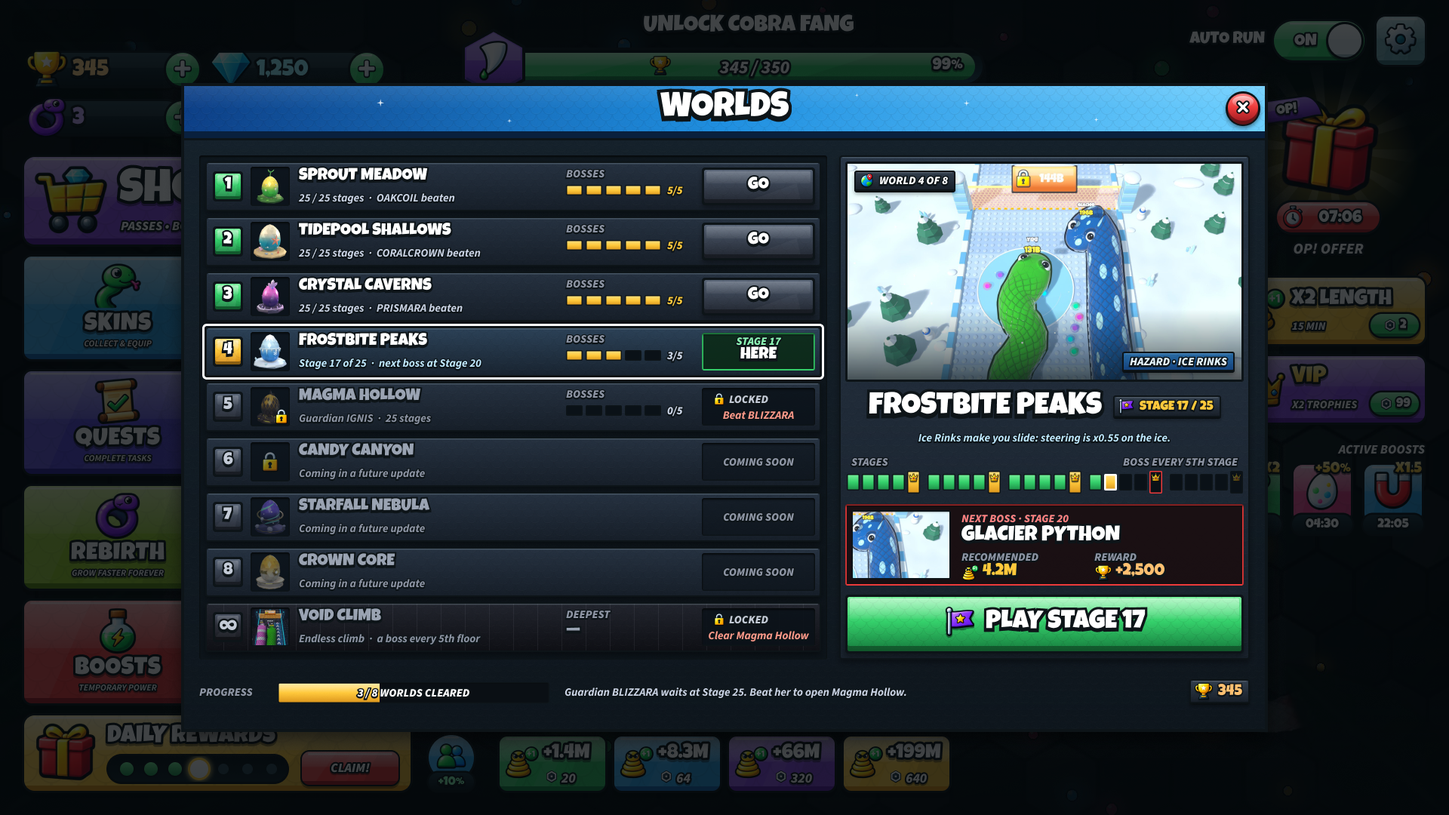
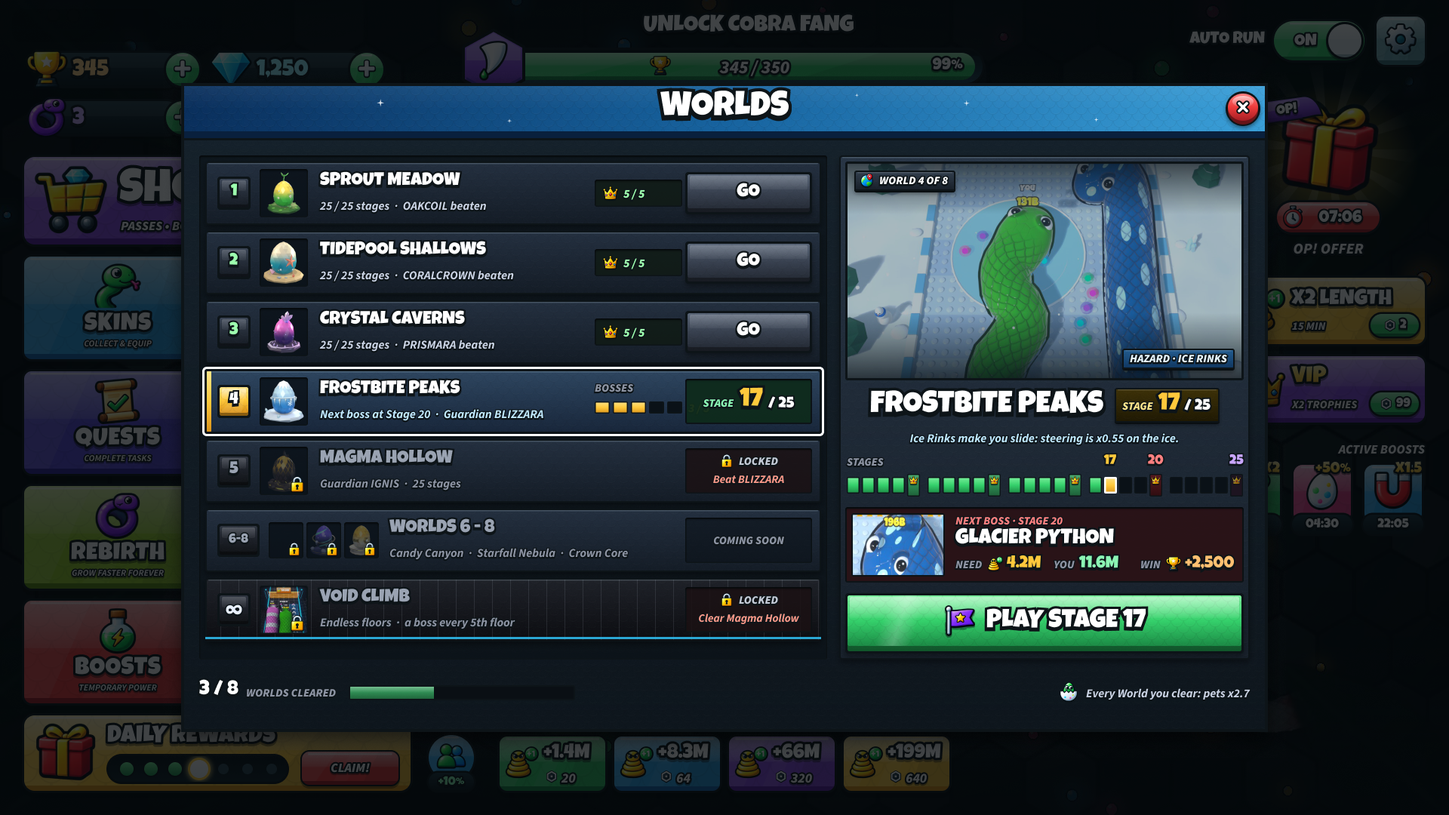
Snake Wars v2: Worlds QA fix pass (7-row list, numerals first, ink outlines, darker header/art) + QA reports

diff --git a/concepts/snakewars_vc/qa/worlds_v2_vh_feasibility.md b/concepts/snakewars_vc/qa/worlds_v2_vh_feasibility.md
@@ -1,0 +1,137 @@
+# Snake Wars "Worlds" v2 (1920x1080) - Visual Hierarchy + Roblox Feasibility review
+
+Image reviewed: concepts/snakewars_vc/after/worlds_desktop_v2.png. Compared with before/worlds_desktop.png (old map version) and ref/peckwood_v2_mine_areas.png (style reference). Kit read: figma/sw_kit.js.
+Method: Gaussian blur r=8 then 25 % and 50 % downscale (colour and grayscale), plus per-region luminance/saturation measurements and WCAG contrast sampling on the full-res PNG. Read-only; nothing edited except this report.
+
+Layout facts used below (px at 1920x1080): window x242-1676, y114-970 (1434x856, flat blue header 60 px). Rail x274-1086 (9 rows, 73 px pitch). Hero well x1122-1646, y217-503 (524x286). Title block y515-560. Stage strip y600-656. Boss card y670-775. PLAY key x1122-1646, y790-862 (524x72). Footer y900-935. Backdrop is dimmed to about 32 % of its original brightness (about 68 % scrim).
+
+---
+
+## SQUINT ORDER (what the eye actually lands on)
+
+| # | Shape | Evidence |
+|---|-------|----------|
+| 1 | The hero art slab (snow scene, top right, 524x286) | Mean luminance 0.72 vs window mean 0.28 and PLAY region 0.59. Near-white snow is the brightest and largest shape in the window. It is also the only big light object on a dark UI. |
+| 2 | The blue header band with white WORLDS, full width | Saturation 0.72, luminance 0.48, 1434 px wide. It is the most saturated shape in the window. lum x sat = 0.32 vs 0.29 for the PLAY region, so it edges the key out on raw pop. |
+| 3 | PLAY STAGE 17 green key (bottom right) | Strong and isolated, but third. Wins on isolation and hue, loses on size of the bright area and on luminance. |
+| 4 | The gold pip column on rail rows 1-4 (four 5-pip bars stacked at x750-905) plus the green number badges 1-3 and the white outline on row 4 | Repeated saturated gold dashes read as one vertical stripe. Cleared rows (1-3) are louder than the current row (4): full gold pips x3 and bright green badges x3 vs only 3 pips and an amber badge on row 4. |
+| 5 | The yellow "3/8 WORLDS CLEARED" bar, isolated bottom left (with the gold 345 chip bottom right) | Full-saturation gold (235,171,43) on near-black (10,15,20), alone in a dead footer. Isolation makes it pop far above its importance. |
+
+Also visible but outside the window: the red/gold gift box at the right edge (the strongest backdrop object even at 32 % brightness).
+Also pulling in the right column: the boss-card thumbnail (a bright white-blue crop of the hero art, directly above PLAY) and the amber "1448" lock tag baked into the hero art (top centre, highest-saturation warm dot in the hero).
+
+## INTENDED ORDER (player job: where am I, next boss, press PLAY; then replay / what is locked and why)
+
+1. PLAY STAGE 17 - the one primary key: strongest saturation, biggest key, terminus of the right column.
+2. FROSTBITE PEAKS plus a big "17/25" numeral (where am I). Biggest white type in the window.
+3. World 4 row in the rail (white outline, brighter plate, "HERE") - confirms location, anchors the rail.
+4. NEXT BOSS card: GLACIER PYTHON, 4.2M recommended, +2,500 reward - the only warm/red panel.
+5. Hero art as atmosphere - supports #2, must never out-shine #1.
+Then: stage strip (17 marker, crown at 20) > cleared-world GO keys (steel, quiet) > locked rows (quietest) > progress footer (quietest of all) > header chrome.
+
+## Mismatch table (squint vs intended)
+
+| Mismatch | Cause | Smallest fix |
+|----------|-------|--------------|
+| Hero art is #1, PLAY is #3 | contrast (luminance 0.72) + size | Darken/cool the art and add edge vignette (see FIX 1). |
+| Header outranks PLAY | saturation + width | Lower header value 20-25 %, dome gloss 0.32 to 0.18 (FIX 4). |
+| Cleared rows louder than current row | saturation + repetition (3x gold pips, 3x bright green badges) | Mute cleared pips/badges; keep bright gold only for row 4 (FIX 2). |
+| "Where am I" numbers are tiny | size (numbers smaller than labels - breaks "numbers before labels") | Big gold numerals for 17 and 17/25 (FIX 3). |
+| Footer progress bar and 345 chip pop | isolation + saturation (dead-zone magnets) | Mute bar, drop duplicate chip (FIX 5). |
+| Boss thumbnail pulls the eye next to PLAY | luminance + duplicates hero art | Dark portrait on the card's own background (FIX 6). |
+
+## FIXES (ranked, smallest change first within each rank)
+
+1. **Hero art too bright (cause: luminance/size).** Target mean luminance <= 0.45 so the PLAY face is the brightest large shape. In the render: re-expose the snow cooler/darker (snow about (150,175,200) instead of (225,245,254)) and add a 25-30 % black vignette at top and bottom edges; keep the green snake and blue boss bright so the subject still pops. Delete the baked-in amber "1448" lock tag, "YOU 1318" and "1968" world-space billboards (tiny unreadable text, one saturated amber dot that looks like UI). In Roblox this is free: ImageLabel.ImageColor3 = (0.70, 0.76, 0.88) multiplies the art darker/cooler, plus two edge gradient Frames.
+2. **Cleared rows outshine the current row (cause: saturation + repetition).** Rows 1-3: pips at about 45 % (muted dull gold, or collapse to a single "5/5 BOSSES" text with a check); badges to steel or venom-bevel dark green with a small check. Only row 4 keeps full-bright gold pips and the amber badge. Add a 6 px amber accent bar on the left edge of row 4 and make row 4 about 16 px taller (space comes from FIX 7).
+3. **Numbers must read before labels in the "where am I" cluster (cause: size).**
+   - Hero chip "STAGE 17 / 25": make "17" a Luckiest Guy gold numeral about 28-32 px with a 12 px "STAGE" label above or beside; "/ 25" smaller.
+   - Row-4 HERE chip: today "STAGE 17" is about 13 px and "HERE" is 22 px, so the word beats the number. Swap: "STAGE" 11 px label, "17" 28 px, drop the word HERE (the white outline and accent bar already say here).
+   - Row-4 subtitle "Stage 17 of 25": make "17/25" gold Luckiest 18 px.
+   - Stage strip: add a numeral above the amber tile ("17") and under the red boss tile ("20"). Today the strip has no numbers, so the amber tile is not tied to 17 without reading the title.
+4. **Header louder than the key (cause: saturation + width).** Drop header value about 20-25 % (e.g. gradient from #1C4F86 to #143A66) and the dome gloss alpha from 0.32 to 0.18; keep sparkles and the title. This is where the screen beats the Peckwood reference, whose header is as loud as the window gets.
+5. **Footer magnets (cause: isolation + saturation).** Progress bar: muted fill (venom at 55 % or desaturated gold), numerals "3/8" in Luckiest 20 px *inside/left* of the bar, "WORLDS CLEARED" label outside to the right (today the label straddles fill and track with no gap: "3/8WORLDS CLEARED"). Delete the 345 trophy chip (duplicates the HUD, and the HUD already shows 345/350); if trophies really gate worlds, say so ("Need 400 for next world") instead. Delete the footer sentence "Guardian BLIZZARA waits at Stage 25..." (duplicates row 5's "Beat BLIZZARA") or fold it into the row-5 lock reason.
+6. **Boss card (cause: luminance + duplication).** Boss portrait should be a dedicated head/body render on the card's own dark-red gradient, not a bright crop of the hero (it currently shows ice terrain and the "1968" tag and sits right above PLAY). Add a "YOUR LENGTH 1.4M" line next to "RECOMMENDED 4.2M" - the recommendation has no reference number, so the player cannot decide. Keep the card as the only red panel. Add 8-10 px more gap between card and PLAY key (today 15 px; red outline and green key vibrate against each other) and soften the red border to about 60 %.
+7. **Dead zone: rows 6, 7, 8 (cause: wasted height, 3x identical copy "Coming in a future update").** Collapse to one 52 px row "WORLDS 6-8 - COMING SOON" with three small padlock icons. That returns about 165 px of rail height (use it for FIX 2's taller row 4 and for a 2-line lock reason on row 5). Tie the lock reason to the strip: tint the stage-25 crown (currently almost invisible) rose/ember with a tiny lock so "Beat BLIZZARA" visibly points at the end of the strip.
+8. **Push PLAY further (position/isolation/motion).** Idle sheen sweep across the PLAY face every 4 s (UIGradient.Offset tween) and a 1.5 % UIScale breathe; nothing else in the window moves. Optional: raise the lip from 6 to 8 px, label to 40 px. Do not add a second saturated key anywhere.
+9. **Selection semantics.** "HERE" (where progress is) and the white outline (selected row) are different states that currently coincide. When the player selects row 2, the outline must move and the HERE marker must stay on row 4; PLAY becomes REPLAY ... Spec this before building.
+10. **Hero chips.** "WORLD 4 OF 8" (13 px label) is fine as an orientation chip but the number is as small as the words; if space allows, "4" gets the same big-numeral treatment as 17.
+
+### Competing primaries, dead zones, fold
+
+- Competing primaries: none among keys (PLAY is the only saturated key, GO keys are steel, HERE is a dark-green well, the red gem close is standard). The competition is non-key: hero art, header band, gold pips, gold progress bar. The round red close gem is the second-most-saturated key and is acceptable.
+- Gold is overloaded (boss-beaten pips, current-stage tile, row-4 badge, reward numbers, progress bar, trophy chip). Keep gold = "boss / reward" and let current = white outline + amber, and the progress bar goes to venom/steel.
+- Dead zones: rows 6-8 (about 220 px, 340 px empty centre columns); footer strip (60 px for one stat plus a duplicated sentence plus a duplicated trophy count).
+- Below the fold: nothing at 1080p (the window is 856 px tall). The "why locked" information is the lowest-placed text (footer sentence) and the smallest on row 5 (14 px coral); the row-level reason (9:1 contrast) is right, the footer duplicate should go. Contrast is fine across the board: dim locked titles are 3.5-4.1:1 (intentional), secondary labels 4.6-5.9:1, body text 10:1+, so the problems are hierarchy, not legibility. Phone layout not reviewed; the rail has 9 rows, so on phone scroll it to row 4 and pin PLAY outside the scroll area.
+
+## Old vs new vs Peckwood reference
+
+- **Old (map version):** the green header (lum 0.66, pop 0.35) and the PLAY key (pop 0.35) tied for first; the winding green path, snake mascot, 25 green stage nodes and green PLAY made a green soup, so there was no unique primary. Location ("World 4, Stage 17") was only a small snake head on the map plus a gold node in the grid. Locked worlds were coloured, lit platforms as vivid as the open ones. Strengths worth keeping: big node numbers, strong journey/story feel.
+- **New:** clearly better. One green key in the whole window, header moved off green, steel secondaries, locked rows genuinely quiet, rail/hero/primary-beside-details structure as specified, boss pips and lock reasons are new information, and the boss card has real numbers-over-labels (RECOMMENDED 4.2M, +2,500). It loses the journey-map feel and the world identity is now concentrated in the hero art plus 48 px egg icons, so the hero must change per selected world.
+- **vs Peckwood v2 reference:** on par, not yet higher. Ahead: no tab-bar green competing with the primary key, and the label vs number split in the boss card is cleaner. Behind: Peckwood's hero is dark purple with a dark golem, so it never competes with the green key; ours is near-white and does. The reference also has bright gold milestone pips x4, same as ours, so that is not a differentiator. To go higher: FIX 1, 2, 3, 4 and 8.
+
+## VERDICT
+
+**CLEAR in structure, muddled at the top of the order.** One primary key, quiet secondaries, and a readable rail/hero/PLAY flow, so the player can find the job in a second. But the squint order is hero art, header, PLAY, gold pips, footer bar, so the primary key is third and the "where am I" numbers are the smallest text in their cluster. FIX 1-5 (all palette/size changes, no layout rebuild) turn this into a clear order and put it above the Peckwood reference.
+
+---
+
+# PASS 2 - ROBLOX FEASIBILITY
+
+Allowed toolbox assumed: Frame, UICorner, UIStroke, UIGradient (linear), ImageLabel (icons/art/textures/flipbooks), TextLabel (LuckiestGuy, SourceSansPro Heavy/Bold Italic), UIScale, TweenService. No EditableImage, shaders, blend modes, conic gradients, skew, letter-spacing, backdrop blur, native drop shadows.
+
+Everything in this screen uses only normal-alpha blending, linear gradients and axis-aligned or rotated rectangles/triangles. Nothing needs a blend mode, a conic gradient, a skew or letter-spacing. The kit's DROP_SHADOW/INNER_SHADOW effects are the only things with no native equivalent.
+
+Rough instance budget for this window if built literally from the kit: about 350-450 GuiObjects (about 28 per rail row x 9 = 250, right column about 70, window/header/footer about 35), about 60 UIGradients, about 100 UIStrokes. That is fine for a static, build-once screen; the notes below trim the avoidable part (hex overlays that are invisible at 5 %, strokes on small steel-plate text, soft shadows). Treat the counts as estimates, not engine limits.
+
+| # | Effect (where) | Verdict | Roblox recipe | Perf note | Redesign? |
+|---|----------------|---------|---------------|-----------|-----------|
+| 1 | Square-top window, 4 px continuous ink outline | native | Frame (no UICorner) + UIStroke(Thickness 4, Color ink #0D1418, ApplyStrokeMode Border). UIStroke draws outside the frame bounds (verify once in Studio) so inset the frame by the thickness or give the parent padding. | 1 stroke. | No |
+| 2 | Dimmed hub backdrop (about 68 % scrim) | native | Full-screen Frame, black, BackgroundTransparency about 0.32, Active=true to eat clicks. No blur. Live HUD stays under it. | 1 quad. | No. Consider 0.25 so the red gift box recedes. |
+| 3 | Soft window shadow (SHADOW 10/24/0.5) | recipe, optional | One 9-slice soft-shadow ImageLabel (ScaleType Slice, SliceCenter) behind the window, offset +10 Y, ImageTransparency about 0.5. | 1 image. | In the render it is invisible against the scrim: safe to drop. |
+| 4 | Header: L-to-R gradient, hex scales, gloss dome, depth band, ink line | native | Frame + UIGradient(Rotation 0); tiled ImageLabel for scales; dome = Frame with UICorner(1,0) and UIGradient Transparency 0.68 to 1, parent header ClipsDescendants; depth band and ink line = 2 Frames. | About 6 objects. | No |
+| 5 | Sparkles (5 four-point stars, header) | native | 4-point-star PNG in ImageLabels, 5-10 px; optional TweenService twinkle on ImageTransparency/Rotation. | 5 tiny images; tween only on window open. | No |
+| 6 | Round red gem close key | native | 4 Frames with UICorner(1,0) (ink body, lip, face, gloss), X as ImageLabel PNG (kit builds it from vector strokes - not available), 56 px hit area as an ImageButton/TextButton. | about 6 objects. | Glyph must be a PNG. |
+| 7 | Gem keys (PLAY, GO, HERE, number badges): ink body + lip + face + hex scales + facet + gloss cap | native (composed) | Frame ink body (UICorner 4) > lip Frame (face colours x0.62, UICorner 2.5) > face Frame (UIGradient vertical) > children: tiled scales ImageLabel, facet, gloss Frame. Press state: tween face Position down by D and hide lip. Build as one Key factory. | 5-7 objects per key, about 15 keys = about 90. Steel keys: skip scales and facet (they are 3-5 % opacity). | Slim steel variant. |
+| 8 | Gloss cap (white .45 to .04 on upper 42 %) | native | Frame, BackgroundColor3 white, UICorner, UIGradient Transparency (0.55 at top to 0.96 at bottom; Roblox transparency = 1 - alpha). | 2 objects (frame + gradient). | No |
+| 9 | Face and plate gradients | native | UIGradient ColorSequence, Rotation 90 (vertical) or 0 (horizontal); set BackgroundColor3 white so the gradient carries the colour. Kit only uses linear gradients. | Cheap, static. | No |
+| 10 | Facet triangle (3-7 % white, rotated polygon on keys) | recipe | No polygon primitive. Use a Frame with UIGradient Rotation -28 and a hard-stop Transparency sequence (0:1, 0.5:1, 0.501:0.93, 1:0.93). No asset needed. Alternative: shared white-triangle PNG in an ImageLabel, rotated, ClipsDescendants on the face. | 1 object per key. At 3 % (steel keys) it is invisible in the render. | Drop on steel; keep on coloured keys only. |
+| 11 | Hex-scale texture (5-8 %) on window, header, plates, keys | recipe | ImageLabel, ScaleType Tile, TileSize about 28x16 px, ImageTransparency 0.92-0.95, seamless PNG <= 256 px, own asset (not a sprite sheet; Tile + ImageRect is unreliable). UIScale on the window scales tiles with it. | Each layer is an overdraw quad and breaks draw batching when interleaved with text. About 35 in this screen. | Keep only on window bg, header, PLAY key and keys >= 120 px; drop the <= 5 % layers on plates/chips/badges (invisible). |
+| 12 | Ink drop on text (hard 0-blur offset 1-4 px) | recipe | Duplicate TextLabel behind: ink colour, same text, Position +(0, y), lower ZIndex, its own UIStroke. | Doubles label count. | Limit to Luckiest Guy display text and numbers >= 18 px (title, PLAY, row names, big numerals); at <= 16 px the drop sits inside the outline and does nothing. |
+| 13 | Outlined text (ink stroke 1.2-4.5 px) | native | UIStroke on the TextLabel: ApplyStrokeMode Contextual, Color ink, Thickness = about 0.09 x size, LineJoinMode Round. | About 100 strokes in the literal build. Text strokes cost more than plain text. | Skip the stroke on <= 16 px labels that sit on steel plates (they already read at 5-10:1 contrast and the 1.2 px outline is not visible); keep it on text over art, gradients and keys. Tune thickness against one real label (the kit's OUTSIDE 9 % may need +/-0.5 px). |
+| 14 | Fonts: Luckiest Guy titles/numbers; Source Sans Black Italic / Bold Italic labels | native | Enum.Font.LuckiestGuy; SourceSansPro family via Font.new(..., Heavy, Italic) and (..., Bold, Italic). Uppercase with string.upper. | None. | Do not hard-code widths from Figma's textW (Source Sans 3 vs SourceSansPro metrics differ slightly): use AutomaticSize.X, UIListLayout and TextBounds. No letter-spacing is needed (kit uses none). |
+| 15 | Infinity glyph on the Void Climb badge | NOT possible as text (uncertain) | Luckiest Guy is unlikely to have U+221E and Roblox will fall back to a different font. Use an ImageLabel glyph PNG. | trivial. | Yes - make it an icon. |
+| 16 | Steel plate rows (gradient + 2 px stroke + top highlight + soft drop) | native + recipe | Frame + UICorner(4) + UIGradient + UIStroke(2) + 1.5 px top highlight Frame (white, transparency 0.82). Soft SHADOW(4,10) replaced with a 3 px hard ink Frame offset below, or dropped. | 3-4 objects x 9 rows. | Replace soft shadow. |
+| 17 | Inner shadow on wells (value fields, icon wells, COMING SOON wells, hero frame) | recipe | One 9-slice inner-shadow ImageLabel (single PNG shared by all wells) or a 6 px top Frame with UIGradient Transparency 0.35 to 1 plus optional 2 px side strips. | 1-3 objects per well. | Yes, replace the effect. |
+| 18 | Soft drop shadows on keys, chips, plates, icons (SHADOW/INKDS with blur) | NOT possible natively | Hard-offset ink Frame under the element (the key lip already is one), or a 9-slice soft-shadow ImageLabel for large items only. For icons: bake the 1.5 px drop into the PNG, or a duplicate ImageLabel with ImageColor3 = ink, 50 % transparent, +1.5 px Y. | Soft shadows on every key/plate would add about 30 image quads; they are almost invisible on the dark steel. | Yes - remove blurred shadows, keep hard offsets. |
+| 19 | Hero art (snow scene with snakes) | recipe | Pre-rendered image (Studio/Blender), uploaded as one ImageLabel asset, <= 1024 px on its long side (Roblox downsizes larger uploads; use about 1024x560). UICorner 3, UIStroke 2 ink, ImageColor3 tint to darken (FIX 1), edge vignette via 2 gradient Frames or one 9-slice vignette PNG. Chips ("WORLD 4 OF 8", "HAZARD - ICE RINKS") are Frame + UIStroke + TextLabel on top. Load only the selected world's art (ContentProvider:PreloadAsync). Avoid a live ViewportFrame (EditableMesh snakes, cost). | About 1-2 MB of GPU memory per hero; 8 worlds = load on demand, release on close. | Re-render clean without baked world-space tags (amber lock "1448", "YOU 1318", "1968"); baked text cannot be localised. |
+| 20 | Boss portrait crop (card thumbnail) | native (but redesign) | ImageLabel with ImageRectOffset/ImageRectSize cropping the same hero asset costs no extra memory; better a dedicated 256x256 boss render on a dark backdrop. UIStroke 2 red on the thumbnail only. | trivial. | Yes - dedicated portrait (FIX 6). |
+| 21 | Icons (eggs, flag, trophy, crown, locks, length stack, globe) | native | ImageLabels from 3D renders (Blender); pack into 1-2 sprite sheets with ImageRectOffset/Size (pad edges) to keep texture count down. ZIndex above the plate. | About 35 icons; unique textures break batching, so use sheets. | No |
+| 22 | Vector glyphs (X, check, plus) built from SVG strokes in the kit | NOT possible as vectors | Render once to PNG (white fill + ink outline baked in) or use a TextLabel with a font glyph. | trivial. | Bake to PNG. |
+| 23 | Rail row selection (white 2 px outline on row 4, accent bar) | native | UIStroke(2.5, white) on the row Frame + 6 px accent Frame. The stroke is drawn outward: leave 4+ px padding in the list container so ClipsDescendants does not cut it. Tween Thickness/Transparency to animate selection. | 1 stroke. | Layout padding. |
+| 24 | Locked-row dimming | recipe | Use pre-dimmed colour tokens on those rows. Do not use CanvasGroup/GroupTransparency (not in the toolbox, and it costs an offscreen buffer). | none. | Token set, not a runtime fade. |
+| 25 | Pips (boss pips, stage strip of 25 tiles + crowns, progress bar) | native | Small Frames with UICorner 2 + UIStroke 1.5; UIListLayout/UIGridLayout; crowns as ImageLabels; BAR = track Frame + fill Frame (UIGradient) + gloss + TextLabel on top. Idea: the 5 boss pips per row could be one Frame with a hard-stop UIGradient, but 5 pips x (colour + gap) is about 20 keypoints, the maximum, so just use Frames. | About 55 objects for the strip, 25 for the pips. For cleared rows replace 5 pips with one text/check chip (saves about 18 objects). | Optional |
+| 26 | Chips (STAGE 17/25, WORLD 4 OF 8, HAZARD, 345) | native | Frame + UICorner 3 + UIStroke 2 + UIListLayout (icon + label) with AutomaticSize. | small. | No |
+| 27 | Boss card (red tint, red 2 px border) | native | Frame bg dark red (26,16,19), UIStroke red, children via UIListLayout. | small. | No |
+| 28 | Void Climb row vertical-stripe texture | recipe | Tiled low-alpha stripe PNG in one ImageLabel (or drop; barely visible). | 1 image. | Optional |
+| 29 | Open/close pop and PLAY idle sheen/pulse | native | TweenService on UIScale (0.94 to 1, <= 0.2 s) and window Position; sheen via UIGradient.Offset tween; pulse via UIScale on the PLAY face. Tweening UIScale on a window with about 100 text labels re-lays out text each step, so keep it short and do not loop it on the whole window; loop only the PLAY sheen. | Low if scoped to PLAY. | No |
+| 30 | Gradient-filled text | native (not used here) | UIGradient parented to the TextLabel. | n/a | n/a |
+
+Clip behaviour to remember: ClipsDescendants clips to the rectangle, not to UICorner shape. At the kit's radii (2.5-4 px) nothing visibly leaks, but the hero well and rounded keys should not rely on rounded-corner clipping for art.
+
+## MUST-REDESIGN LIST (before this screen is built)
+
+1. **Hero art: re-render clean and darker.** No baked billboards or lock tag, <= 1024 px, tuned to mean luminance <= 0.45, vignette via gradient/9-slice. (Visual FIX 1 and Roblox constraint align.)
+2. **Boss portrait: dedicated render**, not a crop of the hero (baked "1968" tag, bright ice).
+3. **Facets: drop on steel keys; use a hard-stop UIGradient Frame on coloured keys** instead of rotated polygon assets.
+4. **Soft shadows (window, keys, plates, chips, icons): remove**; keep only hard ink offsets and the key lip. At most one 9-slice shadow for the window (invisible anyway).
+5. **Inner shadows on wells: swap for one shared 9-slice inset PNG** (or a 6 px top gradient strip).
+6. **Text effects tiered:** outline + ink-drop duplicate only on display text and numbers >= 18 px and on text over art; <= 16 px steel-plate text gets neither (saves about 35 strokes and about 40 duplicate labels).
+7. **Hex-scale overlay only on window, header, PLAY and large keys;** drop the <= 5 % layers (about 25 objects).
+8. **Infinity glyph and all SVG-built glyphs (X, check, plus) become PNG icons.**
+9. **Do not bake Figma text widths** (font metrics differ): AutomaticSize + UIListLayout everywhere; fix the "3/8WORLDS CLEARED" collision by splitting numeral and label.
+10. **Locked-row dimming through colour tokens**, no CanvasGroup.
+11. **Padding for outward strokes:** the 4 px window outline and the 2.5 px row-4 outline are drawn outside their frames; reserve space or they will be clipped by parent ClipsDescendants.
+12. **Merge cleared-row pips into one chip** (also fixes the visual hierarchy: FIX 2) and collapse rows 6-8 into one row (FIX 7): about 40 fewer objects and a calmer rail.
+
+Net verdict for Roblox: everything on screen is buildable with the allowed set. The only things that are not native (blurred drop shadows, inner shadows, vector glyphs, polygon facets) have cheap substitutes, and in every case the substitute is closer to what is actually visible in the render than the original effect was (the soft shadows and 3-5 % overlays are essentially invisible at 1080p).

diff --git a/concepts/snakewars_vc/qa/worlds_v2_uiqa_style.md b/concepts/snakewars_vc/qa/worlds_v2_uiqa_style.md
@@ -1,0 +1,137 @@
+# Worlds v2 - UI QA (zoomed) + Style Guard
+
+Image: `concepts/snakewars_vc/after/worlds_desktop_v2.png` (1920x1080). Window = x 240..1679, y 110..969.
+Method: full view once, then 2-6x Pillow crops of every region (header, 9 rows, hero, title row, stage strip, boss well, PLAY key,
+bottom strip, corners) plus pixel sampling for edges, gaps, colours and cap heights. Cap height 10 px = about 15 px Source Sans.
+
+Verified clean (so you know what was checked): window outline is 4 px ink (13,20,24) on all four sides including the header,
+no gaps (L x240-243, R x1676-1679, T y110-113, B y966-969); rows are 66 px tall on an exact 73 px pitch (7 px gaps, y=214+73*(n-1));
+row title/sub baselines identical in all 9 rows (title +8..+24, sub +42..+55); name column x=396, BOSSES column x=751/884, right
+controls x=930..1080 in every row; list well and right panel share top 206 and bottom 873; PLAY key has a continuous 3 px ink
+outline (x1120..1647, y788..865) with a 7 px lip and gloss cap and 6 px steel margin each side; selected ring is exactly 3 px white
+(x268-270 / 1089-1091, y429-431 / 500-502); no placeholder text (no lorem, no TODO); close key is 46 px with 6-7 px margins.
+
+---
+
+## PASS 1 - UI QA defects (most severe first)
+
+Severity: M = visible at a glance / breaks a stated rule, L = polish.
+
+1. **[M] Next-boss portrait is a bad crop of the hero screenshot (clipped subject + clipped baked text).**
+   Where: thumbnail x1130..1258, y678..766 (inside the red well).
+   What: the python's head is sliced by the left edge, the in-game nameplate "1968" is cut by the top edge, and the rest is empty snow,
+   a tree and a snowman. It does not read as "GLACIER PYTHON" at all, and it is 128x88 so the sliced art is unmissable.
+   Fix: re-crop tight on the boss head + neck with the whole face inside the frame and the nameplate excluded (or drop in the
+   dedicated boss render from `3d/bosses`); keep the 2 px ink frame.
+
+2. **[M] Locked states are three different treatments (rows 5-8); rule 11 not met.**
+   Where: thumbnails at x332..384, rows 5-8 (y 506, 579, 652, 725 + 7..58); right wells x930..1080.
+   What: row 5 = egg dimmed to about 25% + padlock overlay + LOCKED / Beat BLIZZARA well (correct). Row 6 = no egg at all, a lone big padlock
+   (Candy Canyon has no egg art in the kit). Rows 7 and 8 = eggs at full colour/saturation (purple, gold), no padlock, no dim.
+   Rows 6-8 right wells say COMING SOON with no padlock. So 7 and 8 look unlocked-but-disabled while 5 looks locked.
+   Fix: one recipe for 5-8: egg art at the row-5 dim (about 25-30%) + the same 20 px padlock bottom-right of the tile; give Candy Canyon
+   an egg (or a dim "?" egg silhouette) so 6 is not a different icon type; add a small padlock before COMING SOON in the well.
+
+3. **[M] Coloured rims instead of ink outlines on three inner components.**
+   Where: (a) boss well rim x1120..1647, y668..775, 2 px #EE3B3B directly on steel, no ink around it; (b) row-4 status box rim x930..1080,
+   y441..490, 2 px #32BE61; (c) stage-20 cell ring x1523..1539, y~623..656, 2 px #EE3B3B.
+   Why: house rule is one black outline, no coloured rim; the ref wells (e.g. MINING HERE) are plain ink-outlined with coloured text only.
+   Fix: give all three the standard 2 px ink outline; carry the red/green as a tint of the fill (e.g. red 8% fill, green 10% fill) and in the
+   text. Stage-20 cell: ink outline + red crown/fill, no red ring.
+
+4. **[M] "STAGE 17 / HERE" text stack is cramped and off-centre.**
+   Where: x930..1080, y441..490. "STAGE 17" cap y447..456, "HERE" y460..474: 3 px clear between them, so the two ink halos
+   touch/merge. Block sits 5 px under the top rim and about 15 px above the bottom rim (top-heavy by about 5 px).
+   Fix: add 3-4 px leading (STAGE 17 up 1, HERE down 2) and centre the block (net shift down about 4 px), or drop to one line
+   "STAGE 17 HERE" in Source Sans mint.
+
+5. **[M] Hero art carries baked-in game text that is illegible and contradicts the panel.**
+   Where: hero x1123..1645, y217..503: gate tag "1448" (washed white-on-orange, about 1340..1425 x 225..250), nameplates "YOU 131B" and
+   "GLACIER 196B" (6-9 px tall, blurry).
+   Why: below the 15 px floor and unreadable; the numbers (131B / 196B / 1448) conflict with "RECOMMENDED 4.2M" in the boss well. The
+   art is also visibly softer than the UI (bilinear upscale).
+   Fix: re-render the hero without nameplates/gate numbers (or paint them out), or make them match (e.g. 3.1M / 4.2M); export at 2x.
+
+6. **[L] Progress bar: label straddles the fill edge and runs together; bar has no readable frame.**
+   Where: bar x368..727, y904..931; fill ends x503; label x470..620.
+   What: "3/8" sits half on gold, "WORLDS CLEARED" on black, and "8" to "W" is about 3 px so it reads "3/8WORLDS". The 1 px ink frame
+   (13,20,24) against window bg (14,23,30) is invisible, so only the gold block reads.
+   Fix: put "3/8 WORLDS CLEARED" entirely right of the fill (left-aligned at x=514) or as value text outside the bar; add a steel 2 px
+   rim or use a lighter track (28,38,50) so the ink outline shows.
+
+7. **[L] Lock + LOCKED line is off-centre in the locked wells.**
+   Where: row 5 and row 9 wells (x930..1080): padlock+LOCKED spans x947..1017 (centre 982) while the second line is centred at 1005
+   ("Beat BLIZZARA" 958..1051; "Clear Magma Hollow" 938..1071). Offset 23 px.
+   Fix: shift the lock+LOCKED group +23 px (or left-align both lines at x946).
+
+8. **[L] Egg icons have no ink outline and are low-res/soft; Void Climb thumbnail is a different art type.**
+   Where: tiles x332..384 in all 9 rows (eggs about 28x40 px of a 52 px tile).
+   What: eggs are soft 3D renders with no black sticker outline (confirmed at nearest-neighbour zoom); tile is half empty. Row 9's
+   thumbnail is a tiny gameplay screenshot with unreadable HUD pixels, not an icon.
+   Fix: add a 2 px ink outline to the egg PNGs (or stack an ink-dilated copy underneath), scale eggs up about 15% to fill the tile,
+   and swap the Void thumbnail for a painted icon (the same stud tower or an infinity gate on the dark tile).
+
+9. **[L] Number badges are saturated keys next to the single primary.**
+   Where: badges 1-3 green, badge 4 gold (x282..316, each row). Same recipe/colour family as the PLAY key, so they compete with it.
+   Fix: make all badges steel keys with the number in mint (cleared) / gold-outlined white (current) / grey (locked); keep colour only on
+   PLAY.
+
+10. **[L] Gold is used for non-Length things, diluting the colour code.**
+    Where: "STAGE 17 / 25" chip text (x1491..1606, y531..542, #FFC93C), "5/5" counters, boss pips, cleared boss cells, progress fill.
+    Fix: stage chip text to white (flag icon stays), "5/5" to body colour, pips and progress to a non-Length colour (sky or ice) so gold
+    means Length only; 4.2M keeps gold, +2,500 and 345 keep amber (both verified correct).
+
+11. **[L] Stage strip ambiguities.**
+    Where: strip x1123..1647, y~622..656. (a) Current stage 17 (x~1450..1480) uses the same gold as cleared boss cells 5/10/15 and its white ring has
+    no ink halo; (b) stage-25 cell (x~1630..1647) is dark-on-dark with no outline, effectively invisible; (c) label insets differ:
+    STAGES starts x1128 (strip 1123, +5) but BOSS EVERY 5TH STAGE ends x1639 (strip 1647, -8).
+    Fix: current = mint or white fill + ink outline + ring; cleared boss = gold; give cell 25 the same 1 px ink + dim crown at 60%;
+    align both labels to the strip ends.
+
+12. **[L] "WORLDS" title sits high in the header.**
+    Where: title ink halo top y118 vs window inner edge y114 (4 px) but bottom y161 vs depth band y174 (13 px).
+    Fix: move title down 4-5 px or reduce size 46 to 42.
+
+13. **[L] Stage chip is about 4 px low against the title.**
+    Where: chip y524..552 (centre 538) vs "FROSTBITE PEAKS" y519..548 (centre 534). Fix: chip up 4 px.
+
+14. **[L] Void Climb tail row reads as "a 9th row", and its value is a bare dash.**
+    Where: row 9 y798..863; "DEEPEST" x751 with a "-" at y~833. Gap above is the same 7 px as every other row.
+    Fix: add 8-10 px extra gap or a hairline + "ENDLESS" tag above row 9; replace the dash with "Floor 0" (dim) so it does not look unfinished.
+
+15. **[L] Bottom band has about 30 px of dead space.**
+    Where: y874..965 is 92 px for a 28 px strip (ref is about 60 px); strip centre y~917 vs band centre 920.
+    Fix: trim the window height by about 28 px (or grow rows to 69 px); not urgent.
+
+Informational (no fix required): rows 6-8 have a 285 px blank middle (x640..925) - acceptable, matches the ref's "Area 7 ???" row; all
+labels measure cap height 10 px = 15 px, so there is no headroom - nudge to 16 if the Roblox scale factor drops under 1.0; "Clear Magma
+Hollow" as the Void Climb requirement is as specified in the brief but I could not verify it against the design doc.
+
+---
+
+## PASS 2 - Style guard checklist
+
+| # | Rule | Result | Location / note | Fix |
+|---|------|--------|-----------------|-----|
+| 1 | Square-top window, one continuous 4 px black outline incl. header, no coloured rims/glows | **PASS (shell) / FAIL (inner)** | Shell: 4 px ink on all sides, square corners, no glow. Inner coloured rims: boss well, row-4 box, stage-20 cell (defect 3) | Replace with ink outline + tinted fill |
+| 2 | Keys = ink body + darker lip + face with gloss cap, r<=4, one black outline | PASS | GO x5 (x930..1080), PLAY (x1120..1647), badges: ink 3 px, 6-7 px lip, gloss cap, r about 4 | none |
+| 3 | Exactly ONE primary key, secondary keys steel | **FAIL (soft)** | PLAY is the only interactive primary and GO x5 are steel (good), but badges 1-4 are saturated green/gold keys (defect 9) | Steel badges |
+| 4 | Round red gem close key top-right | PASS | x1624..1670, y121..167, 46 px, ink ring, gloss, white X; margins 6-7 px | none |
+| 5 | Fonts: Luckiest Guy titles/big numbers, Source Sans 3 Black/Bold Italic labels/body | PASS | Luckiest: WORLDS, row names, GO, HERE, PLAY, FROSTBITE PEAKS, GLACIER PYTHON, 4.2M, +2,500, 345, badges. Source Sans Black Italic: BOSSES, PROGRESS, STAGES, chips. Bold Italic: sub lines | none |
+| 6 | Length gold, rates mint, Trophies amber | PASS (with note) | 4.2M = #FFC93C, +2,500 and 345 = #FFC071 (sampled). No rates on screen; mint appears on "STAGE 17" in the HERE box. Gold overused elsewhere (defect 10) | Re-assign gold per defect 10 |
+| 7 | Icons = glossy 3D-painted art with ink outline (flat vectors only for tiny glyphs) | **FAIL (low)** | Padlock, trophy, Length coil, crown, flag, globe have ink outlines and read painted. Eggs x8 have no outline and are soft/low-res (defect 8). Void thumbnail is a screenshot. The infinity badge is a flat glyph (acceptable, number-badge replacement) | Outline eggs, repaint Void icon |
+| 8 | Zero clipping | **FAIL (art only)** | No text or outline cut by a parent edge. Boss portrait subject and nameplate are cut by the crop (defect 1) | Re-crop |
+| 9 | Labels >= 15 px at 1920 | PASS (at the floor) | BOSSES, PROGRESS, STAGES, BOSS EVERY 5TH STAGE, COMING SOON, LOCKED, NEXT BOSS, RECOMMENDED, REWARD: cap 10 px; body lines about 16 px. Baked hero nameplates are smaller (defect 5) | Optional 16 px |
+| 10 | Content: 8 Worlds + distinct Void Climb row; World 4 Frostbite Peaks Stage 17/25; next boss GLACIER PYTHON at Stage 20; guardian BLIZZARA; nothing sells arena size | PASS | 8 world rows + Void Climb; "WORLD 4 OF 8", "STAGE 17 / 25", "NEXT BOSS - STAGE 20 GLACIER PYTHON", "Beat BLIZZARA", "Guardian BLIZZARA waits at Stage 25"; bosses 3/5 matches cleared stages 5/10/15; no arena-size copy. "Distinct" tail is only mildly distinct (defect 14) | Defect 14 |
+| 11 | Selected row = white 3 px ring; locked rows dim with padlock + requirement | **FAIL** | Ring PASS (exact 3 px white around row 4). Locked: row 5 and row 9 pass; rows 6-8 inconsistent and no requirement/padlock on 7-8 (defect 2) | Defect 2 |
+
+Minimum to unblock STYLE: (a) defect 3 rims to ink, (b) defect 2 locked recipe on rows 5-8, (c) defect 1 boss crop, (d) defect 9 steel badges
+(or an explicit owner waiver that non-interactive number badges may use the key recipe in colour), (e) defect 8 egg outlines.
+
+---
+
+## Verdicts
+
+- **UI-QA: FAIL 15** (5 medium: boss crop, locked-state inconsistency, coloured rims, HERE stack, hero baked text; 10 low). No text is clipped
+  and no sibling edges are broken; the structure (outline, row pitch, key construction, alignment) is solid and close to the bar.
+- **STYLE: BLOCKED** until the five items above are fixed (all small edits, no re-layout needed).
